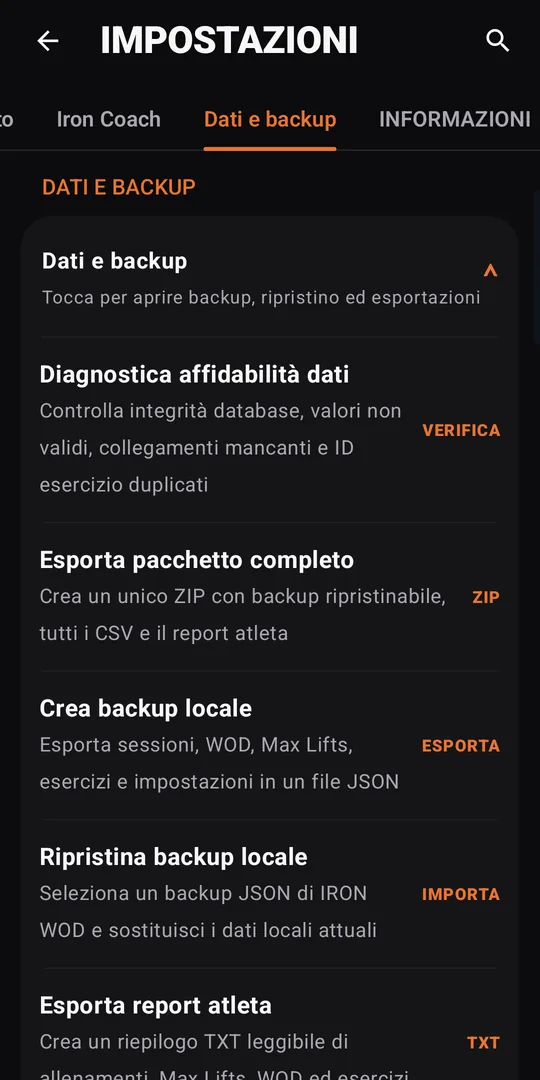
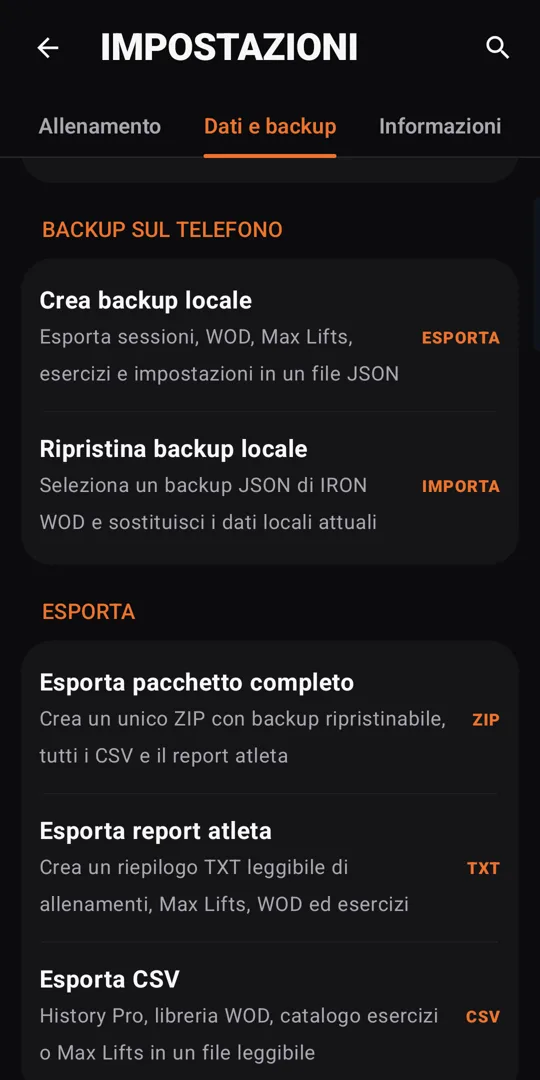
Guida: impostazioni della 10.2.13 (schede, audio unico, blocco History Pro, tempi degli intervalli, muscoli pesati)
Claude-Session: https://claude.ai/code/session_01MH571cCNGsvjtF2qpejdxA

diff --git a/guida/index.html b/guida/index.html
@@ -211,6 +211,8 @@ const SECTIONS = [
         d: { it: 'Italiano, inglese e spagnolo. I nomi ufficiali del cross training (Thruster, Muscle-Up, For Time…) restano in inglese in tutte le lingue, come in palestra.', en: 'Italian, English and Spanish. Official cross-training names (Thruster, Muscle-Up, For Time…) stay in English in every language, as in the box.', es: 'Italiano, inglés y español. Los nombres oficiales del cross training (Thruster, Muscle-Up, For Time…) se mantienen en inglés en todos los idiomas, como en el box.' } },
       { t: { it: 'Unità e tema', en: 'Units and theme', es: 'Unidades y tema' },
         d: { it: 'Sistema metrico (kg, km, m, cm) o imperiale (lb, mi, yd, ft, in) applicato ovunque. Tema scuro, chiaro o automatico: i timer restano sempre scuri per leggerli bene.', en: 'Metric (kg, km, m, cm) or imperial (lb, mi, yd, ft, in) everywhere. Dark, light or automatic theme: timers always stay dark so they read well.', es: 'Sistema métrico (kg, km, m, cm) o imperial (lb, mi, yd, ft, in) en toda la app. Tema oscuro, claro o automático: los temporizadores siempre quedan oscuros para leerlos bien.' } },
+      { t: { it: 'Impostazioni', en: 'Settings', es: 'Ajustes' },
+        d: { it: 'Dal menu, l\'ingranaggio accanto a IRON WOD. Cinque schede: <b>Generale</b> (lingua, unità, tema, azioni rapide, notifiche), <b>Timer</b> (audio, vibrazione, countdown, schermo, TV), <b>Allenamento</b> (blocchi di modifica, formula 1RM, sensori cardio), <b>Dati e backup</b> e <b>Informazioni</b>. La lente in alto cerca tra tutte le voci.', en: 'From the menu, the gear next to IRON WOD. Five tabs: <b>General</b> (language, units, theme, quick actions, notifications), <b>Timer</b> (audio, vibration, countdown, screen, TV), <b>Training</b> (editing locks, 1RM formula, heart rate sensors), <b>Data and backup</b> and <b>Information</b>. The magnifier at the top searches every setting.', es: 'Desde el menú, el engranaje junto a IRON WOD. Cinco pestañas: <b>General</b> (idioma, unidades, tema, acciones rápidas, notificaciones), <b>Timer</b> (audio, vibración, cuenta atrás, pantalla, TV), <b>Entrenamiento</b> (bloqueos de edición, fórmula 1RM, sensores cardio), <b>Datos y copia</b> e <b>Información</b>. La lupa de arriba busca entre todos los ajustes.' } },
       { t: { it: 'Nessun account', en: 'No account', es: 'Sin cuenta' },
         d: { it: 'L\'app funziona offline e non ha un server: tutti i dati restano sul telefono. Il backup su Google Drive è facoltativo e finisce in uno spazio privato del tuo Drive.', en: 'The app works offline and has no server: all data stays on the phone. Google Drive backup is optional and goes to a private area of your own Drive.', es: 'La app funciona sin conexión y no tiene servidor: todos los datos se quedan en el teléfono. La copia en Google Drive es opcional y va a un espacio privado de tu Drive.' } }
     ]
@@ -223,7 +225,7 @@ const SECTIONS = [
       en: 'Eight free timers ready in one tap: AMRAP, EMOM, Tabata, Intervals, Manual intervals, For Time, Countdown and Count Up. The same engines also run your saved WODs, and the board is the same on the phone, on the TV via HDMI and on Chromecast.',
       es: 'Ocho temporizadores libres listos en un toque: AMRAP, EMOM, Tabata, Intervals, Intervalos manuales, For Time, Countdown y Count Up. Los mismos motores ejecutan también tus WOD guardados, y el panel es el mismo en el teléfono, en la TV por HDMI y en Chromecast.'
     },
-    shots: [['timers', { it: 'Scelta del timer', en: 'Choosing a timer', es: 'Elegir el temporizador' }], ['timer-setup', { it: 'Configurazione con i preset', en: 'Setup with presets', es: 'Configuración con presets' }], ['timer-run', { it: 'Timer in corso', en: 'Timer running', es: 'Temporizador en marcha' }], ['timer-landscape', { it: 'In orizzontale', en: 'In landscape', es: 'En horizontal' }]],
+    shots: [['timers', { it: 'Scelta del timer', en: 'Choosing a timer', es: 'Elegir el temporizador' }], ['timer-setup', { it: 'Configurazione con i preset', en: 'Setup with presets', es: 'Configuración con presets' }], ['timer-run', { it: 'Timer in corso', en: 'Timer running', es: 'Temporizador en marcha' }], ['timer-landscape', { it: 'In orizzontale', en: 'In landscape', es: 'En horizontal' }], ['settings-timer', { it: 'Impostazioni › Timer', en: 'Settings › Timer', es: 'Ajustes › Timer' }]],
     items: [
       { t: { it: 'I formati', en: 'The formats', es: 'Los formatos' },
         list: {
@@ -238,7 +240,7 @@ const SECTIONS = [
       { t: { it: 'In orizzontale', en: 'In landscape', es: 'En horizontal' },
         d: { it: 'Gira il telefono a timer avviato: il pannello passa a schermo intero, leggibile da lontano. Con <b>Orizzontale automatico</b> ci va da solo appena parte il timer.', en: 'Turn the phone once the timer is running: the board goes full screen, readable from across the room. With <b>Automatic landscape</b> it switches on its own as soon as the timer starts.', es: 'Gira el teléfono con el temporizador en marcha: el panel pasa a pantalla completa, legible desde lejos. Con <b>Horizontal automático</b> lo hace solo en cuanto arranca el temporizador.' } },
       { t: { it: 'Segnali e preparazione', en: 'Cues and preparation', es: 'Señales y preparación' },
-        d: { it: 'Countdown di preparazione (3, 5 o 10 secondi), beep, voce che dice Vai, Work, Rest e fine allenamento, vibrazione e schermo sempre acceso. Il <b>Countdown finale</b> negli ultimi 10 secondi prima della fine o del time cap fa il conto alla rovescia sonoro e mostra solo i secondi. Tutto si regola in Impostazioni › Allenamento, diviso in <b>Timer · Schermo</b>, <b>Timer · Segnali</b> e <b>Timer · Avvio e fine</b>, con i pulsanti di prova.', en: 'Preparation countdown (3, 5 or 10 seconds), beeps, a voice saying Go, Work, Rest and workout over, vibration and keep-screen-on. The <b>Final countdown</b> counts down out loud in the last 10 seconds before the end or the time cap and shows only the seconds. Everything is in Settings › Training, split into <b>Timer · Screen</b>, <b>Timer · Cues</b> and <b>Timer · Start and end</b>, with test buttons.', es: 'Cuenta atrás de preparación (3, 5 o 10 segundos), pitidos, voz que dice Vamos, Work, Rest y fin del entrenamiento, vibración y pantalla siempre encendida. La <b>Cuenta atrás final</b> en los últimos 10 segundos antes del final o del time cap hace la cuenta atrás sonora y muestra solo los segundos. Todo se ajusta en Ajustes › Entrenamiento, dividido en <b>Timer · Pantalla</b>, <b>Timer · Señales</b> y <b>Timer · Inicio y fin</b>, con botones de prueba.' } },
+        d: { it: 'L\'<b>Audio del timer</b> è una scelta sola: <b>Beep</b>, <b>Voce</b> (dice Vai, Work, Rest e fine allenamento) o <b>Nessuno</b>. Poi vibrazione, countdown di preparazione (3, 5 o 10 secondi) e schermo sempre acceso. Il <b>Countdown finale</b> negli ultimi 10 secondi prima della fine o del time cap fa il conto alla rovescia sonoro e mostra solo i secondi. Tutto sta nella scheda <b>Impostazioni › Timer</b>, divisa in Suoni e vibrazione, Avvio e fine, Schermo e TV e Chromecast, con i pulsanti di prova.', en: '<b>Timer audio</b> is a single choice: <b>Beep</b>, <b>Voice</b> (says Go, Work, Rest and workout over) or <b>None</b>. Then vibration, preparation countdown (3, 5 or 10 seconds) and keep-screen-on. The <b>Final countdown</b> counts down out loud in the last 10 seconds before the end or the time cap and shows only the seconds. It\'s all in the <b>Settings › Timer</b> tab, split into Sounds and vibration, Start and end, Screen and TV and Chromecast, with test buttons.', es: 'El <b>Audio del timer</b> es una sola elección: <b>Beep</b>, <b>Voz</b> (dice Vamos, Work, Rest y fin del entrenamiento) o <b>Ninguno</b>. Luego vibración, cuenta atrás de preparación (3, 5 o 10 segundos) y pantalla siempre encendida. La <b>Cuenta atrás final</b> en los últimos 10 segundos antes del final o del time cap hace la cuenta atrás sonora y muestra solo los segundos. Todo está en la pestaña <b>Ajustes › Timer</b>, dividida en Sonidos y vibración, Inicio y fin, Pantalla y TV y Chromecast, con botones de prueba.' } },
       { t: { it: 'Durante il WOD', en: 'During the WOD', es: 'Durante el WOD' },
         d: { it: 'Pausa e ripresa, round segnati con un tocco, ANNULLA WOD se vuoi uscire senza salvare. Il timer sopravvive anche se lo schermo si spegne, se cambi app o se Android chiude IRON WOD per liberare memoria: riaprendo l\'app il WOD riprende da dove era, contando anche il tempo trascorso.', en: 'Pause and resume, rounds marked with one tap, CANCEL WOD to leave without saving. The timer survives the screen turning off, switching apps, or Android closing IRON WOD to free memory: reopen it and the WOD picks up where it was, counting the time that passed.', es: 'Pausa y reanudación, rondas marcadas con un toque, CANCELAR WOD para salir sin guardar. El temporizador sigue aunque se apague la pantalla, cambies de app o Android cierre IRON WOD para liberar memoria: al volver a abrir la app el WOD continúa donde estaba, contando también el tiempo transcurrido.' } },
       { t: { it: 'Salva il risultato', en: 'Save the result', es: 'Guarda el resultado' },
@@ -288,7 +290,7 @@ const SECTIONS = [
         '<b>Gli esercizi.</b> Tocca <b>+ Esercizio</b>: nasce una riga libera in fondo. Cerca il movimento nel catalogo (vanno bene anche le sigle: TTB, HSPU, BMU…), scegli ripetizioni, calorie, metri o tempo, il carico e una nota ("Speed"). Poi <b>trascinalo dentro l\'intervallo</b>. Con ⋮ lo sposti, lo duplichi o lo mandi in un altro intervallo.',
         '<b>La parte For Time.</b> Aggiungi un secondo intervallo e lascialo su <b>Generale (FOR TIME)</b>: eredita da solo il TC di 20\'. Mettici Power Snatch 21 @40 kg, HSPU 15, TTB 9.',
         '<b>Attendi il tocco tra le parti.</b> Apri l\'intervallo 2 e attiva <b>Attendi il tocco per iniziare</b>: sopra compare il separatore <b>PARTE 2</b>. Finito l\'EMOM il timer si ferma e riparte solo quando tocchi Inizia; l\'attesa non conta nel tempo del WOD e il cap di 20\' parte da qui, non dall\'inizio dell\'EMOM.',
-        '<b>Il recupero tra i blocchi.</b> Tocca <b>+ Riposo</b>: arriva una scheda <b style="color:var(--blue)">blu</b> da 1 minuto (puoi cambiarla). Trascinala dopo il primo intervallo della PARTE 2. Il recupero fa parte del tempo: conta nei 20\' di cap.',
+        '<b>Il recupero tra i blocchi.</b> Tocca <b>+ Riposo</b>: arriva una scheda <b style="color:var(--blue)">blu</b> da 60 secondi: la durata si scrive in secondi, per esempio 90 per 1:30. Trascinala dopo il primo intervallo della PARTE 2. Il recupero fa parte del tempo: conta nei 20\' di cap.',
         '<b>Le altre scale.</b> Dal ⋮ dell\'intervallo della scala 21-15-9 scegli <b>Duplica</b>, cambia le ripetizioni in 15-12-9 e <b>spegni</b> "Attendi il tocco" (deve partire da solo dopo il recupero). Aggiungi un altro Riposo e un terzo intervallo 12-9-6. Dentro la PARTE 2 gli intervalli si numerano da 1: Intervallo 1, 2 e 3.',
         '<b>Controlla e salva.</b> Tieni premuto e trascina per riordinare intervalli ed esercizi. <b>SALVA WORKOUT</b> ti avvisa se un intervallo è vuoto, se un esercizio è rimasto fuori o se un nome non è nel catalogo.',
         '<b>Allenati.</b> Dal dettaglio del WOD premi <b>AVVIA WOD</b>: il timer passa da un intervallo all\'altro, si ferma sulla PARTE 2 e a fine WOD ti propone di salvare la sessione con il tempo di ogni parte.'
@@ -300,7 +302,7 @@ const SECTIONS = [
         '<b>The exercises.</b> Tap <b>+ Exercise</b>: a loose row appears at the bottom. Search the movement in the catalog (board shorthand works too: TTB, HSPU, BMU…), set reps, calories, meters or time, the load and a note ("Speed"). Then <b>drag it into the interval</b>. With ⋮ you move it, duplicate it or send it to another interval.',
         '<b>The For Time part.</b> Add a second interval and leave it on <b>General (FOR TIME)</b>: it inherits the 20\' cap by itself. Add Power Snatch 21 @40 kg, HSPU 15, TTB 9.',
         '<b>Wait for a tap between parts.</b> Open interval 2 and turn on <b>Wait for tap to start</b>: the <b>PART 2</b> divider appears above it. After the EMOM the timer stops and restarts only when you tap Start; the wait doesn\'t count as WOD time and the 20\' cap starts here, not at the start of the EMOM.',
-        '<b>Rest between blocks.</b> Tap <b>+ Rest</b>: a <b style="color:var(--blue)">blue</b> 1-minute card appears (you can change it). Drag it after the first interval of PART 2. Rest is part of the time: it counts toward the 20\' cap.',
+        '<b>Rest between blocks.</b> Tap <b>+ Rest</b>: a <b style="color:var(--blue)">blue</b> 60-second card appears: its length is in seconds, for example 90 for 1:30. Drag it after the first interval of PART 2. Rest is part of the time: it counts toward the 20\' cap.',
         '<b>The other ladders.</b> From the ⋮ of the 21-15-9 interval choose <b>Duplicate</b>, change the reps to 15-12-9 and <b>turn off</b> "Wait for tap" (it must start on its own after the rest). Add another Rest and a third interval 12-9-6. Inside PART 2 intervals are numbered from 1: Interval 1, 2 and 3.',
         '<b>Check and save.</b> Long-press and drag to reorder intervals and exercises. <b>SAVE WORKOUT</b> warns you if an interval is empty, an exercise was left outside or a name isn\'t in the catalog.',
         '<b>Train.</b> From the WOD detail tap <b>START WOD</b>: the timer moves from interval to interval, stops at PART 2 and at the end offers to save the session with the time of each part.'
@@ -312,7 +314,7 @@ const SECTIONS = [
         '<b>Los ejercicios.</b> Toca <b>+ Ejercicio</b>: aparece una fila suelta al final. Busca el movimiento en el catálogo (también valen las siglas: TTB, HSPU, BMU…), elige repeticiones, calorías, metros o tiempo, la carga y una nota ("Speed"). Luego <b>arrástralo dentro del intervalo</b>. Con ⋮ lo mueves, lo duplicas o lo mandas a otro intervalo.',
         '<b>La parte For Time.</b> Añade un segundo intervalo y déjalo en <b>General (FOR TIME)</b>: hereda solo el cap de 20\'. Pon Power Snatch 21 @40 kg, HSPU 15, TTB 9.',
         '<b>Esperar un toque entre partes.</b> Abre el intervalo 2 y activa <b>Esperar un toque para empezar</b>: encima aparece el separador <b>PARTE 2</b>. Al acabar el EMOM el temporizador se detiene y solo vuelve a arrancar cuando tocas Empezar; la espera no cuenta en el tiempo del WOD y el cap de 20\' empieza aquí, no al inicio del EMOM.',
-        '<b>El descanso entre bloques.</b> Toca <b>+ Descanso</b>: aparece una tarjeta <b style="color:var(--blue)">azul</b> de 1 minuto (puedes cambiarla). Arrástrala después del primer intervalo de la PARTE 2. El descanso forma parte del tiempo: cuenta en los 20\' de cap.',
+        '<b>El descanso entre bloques.</b> Toca <b>+ Descanso</b>: aparece una tarjeta <b style="color:var(--blue)">azul</b> de 60 segundos: la duración va en segundos, por ejemplo 90 para 1:30. Arrástrala después del primer intervalo de la PARTE 2. El descanso forma parte del tiempo: cuenta en los 20\' de cap.',
         '<b>Las otras escaleras.</b> Desde el ⋮ del intervalo de la escalera 21-15-9 elige <b>Duplicar</b>, cambia las repeticiones a 15-12-9 y <b>desactiva</b> "Esperar un toque" (debe arrancar solo tras el descanso). Añade otro Descanso y un tercer intervalo 12-9-6. Dentro de la PARTE 2 los intervalos se numeran desde 1: Intervalo 1, 2 y 3.',
         '<b>Revisa y guarda.</b> Mantén pulsado y arrastra para reordenar intervalos y ejercicios. <b>GUARDAR WORKOUT</b> te avisa si un intervalo está vacío, si un ejercicio quedó fuera o si un nombre no está en el catálogo.',
         '<b>Entrena.</b> Desde el detalle del WOD pulsa <b>INICIAR WOD</b>: el temporizador pasa de un intervalo a otro, se detiene en la PARTE 2 y al final te propone guardar la sesión con el tiempo de cada parte.'
@@ -428,9 +430,9 @@ const SECTIONS = [
       { t: { it: 'Mappa muscolare', en: 'Muscle map', es: 'Mapa muscular' },
         d: { it: 'Fronte e retro del corpo con i muscoli principali e secondari evidenziati.', en: 'Front and back of the body with primary and secondary muscles highlighted.', es: 'Frente y espalda del cuerpo con los músculos principales y secundarios resaltados.' } },
       { t: { it: 'Ricerca intelligente', en: 'Smart search', es: 'Búsqueda inteligente' },
-        d: { it: 'Trova gli esercizi anche per alias e sigle da lavagna (BMU, T2B, KBS…), con filtri per tipo, categoria, attrezzatura e difficoltà, e i preferiti in cima.', en: 'Finds exercises by alias and board shorthand too (BMU, T2B, KBS…), with type, category, equipment and difficulty filters, and favorites first.', es: 'Encuentra ejercicios también por alias y siglas de pizarra (BMU, T2B, KBS…), con filtros por tipo, categoría, material y dificultad, y los favoritos primero.' } },
+        d: { it: 'Trova gli esercizi anche per alias e sigle da lavagna (BMU, T2B, KBS…), senza differenza tra maiuscole e minuscole, con filtri per tipo, categoria, attrezzatura e difficoltà, e i preferiti in cima.', en: 'Finds exercises by alias and board shorthand too (BMU, T2B, KBS…), whatever the case, with type, category, equipment and difficulty filters, and favorites first.', es: 'Encuentra ejercicios también por alias y siglas de pizarra (BMU, T2B, KBS…), sin importar mayúsculas o minúsculas, con filtros por tipo, categoría, material y dificultad, y los favoritos primero.' } },
       { t: { it: 'Esercizi tuoi', en: 'Your own exercises', es: 'Tus propios ejercicios' },
-        d: { it: 'Aggiungi esercizi personalizzati con il pulsante <b>+</b> in basso a destra. Quelli standard si possono modificare solo attivando l\'opzione apposita in Impostazioni.', en: 'Add custom exercises with the <b>+</b> button at the bottom right. Standard ones can be edited only after turning on the dedicated option in Settings.', es: 'Añade ejercicios personalizados con el botón <b>+</b> abajo a la derecha. Los estándar solo se pueden editar activando la opción correspondiente en Ajustes.' } }
+        d: { it: 'Aggiungi esercizi personalizzati con il pulsante <b>+</b> in basso a destra. Per i tuoi puoi indicare anche l\'<b>Intensità per ripetizione</b>, che pesa l\'esercizio sulla mappa dei muscoli: 1 = un push-up, 0,2 = una double-under, 1,9 = una strict deficit HSPU. Quelli standard sono già pesati e si possono modificare solo attivando l\'opzione apposita in Impostazioni › Allenamento.', en: 'Add custom exercises with the <b>+</b> button at the bottom right. For your own you can also set the <b>Intensity per rep</b>, which weighs the exercise on the muscle map: 1 = a push-up, 0.2 = a double-under, 1.9 = a strict deficit HSPU. Standard ones are already weighted and can be edited only after turning on the dedicated option in Settings › Training.', es: 'Añade ejercicios personalizados con el botón <b>+</b> abajo a la derecha. En los tuyos puedes indicar también la <b>Intensidad por repetición</b>, que pondera el ejercicio en el mapa muscular: 1 = un push-up, 0,2 = una double-under, 1,9 = una strict deficit HSPU. Los estándar ya están ponderados y solo se pueden editar activando la opción correspondiente en Ajustes › Entrenamiento.' } }
     ]
   },
   {
@@ -464,9 +466,13 @@ const SECTIONS = [
     shots: [['history', { it: 'Cronologia', en: 'History', es: 'Historial' }], ['session', { it: 'Dettaglio sessione', en: 'Session detail', es: 'Detalle de sesión' }], ['session-3', { it: 'Muscoli coinvolti', en: 'Muscles worked', es: 'Músculos implicados' }]],
     items: [
       { t: { it: 'Dettaglio sessione', en: 'Session detail', es: 'Detalle de sesión' },
-        d: { it: 'Struttura del WOD, tempo di ogni parte, punteggio, round, RX o Scaled, RPE, note, carichi usati e frequenza cardiaca con le zone.', en: 'WOD structure, time of each part, score, rounds, RX or Scaled, RPE, notes, loads used and heart rate with zones.', es: 'Estructura del WOD, tiempo de cada parte, puntuación, rondas, RX o Scaled, RPE, notas, cargas usadas y frecuencia cardiaca con zonas.' } },
+        d: { it: 'Struttura del WOD, tempo di ogni parte, punteggio, round, RX o Scaled, RPE, note, carichi usati e frequenza cardiaca con le zone. Il time cap generale compare una volta sola in alto; accanto a un intervallo c\'è solo se ne ha uno suo.', en: 'WOD structure, time of each part, score, rounds, RX or Scaled, RPE, notes, loads used and heart rate with zones. The general time cap shows once at the top; next to an interval only when it has its own.', es: 'Estructura del WOD, tiempo de cada parte, puntuación, rondas, RX o Scaled, RPE, notas, cargas usadas y frecuencia cardiaca con zonas. El time cap general aparece una sola vez arriba; junto a un intervalo solo si tiene uno propio.' } },
+      { t: { it: 'Muscoli coinvolti', en: 'Muscles worked', es: 'Músculos implicados' },
+        d: { it: 'La mappa pesa ogni esercizio per quanto costa davvero una ripetizione: 300 double-under caricano i polpacci meno di quanto 50 strict HSPU carichino le spalle.', en: 'The map weighs each exercise by what one rep really costs: 300 double-unders load the calves less than 50 strict HSPU load the shoulders.', es: 'El mapa pondera cada ejercicio por lo que cuesta de verdad una repetición: 300 double-unders cargan los gemelos menos de lo que 50 strict HSPU cargan los hombros.' } },
       { t: { it: 'Inserimento manuale', en: 'Manual entry', es: 'Entrada manual' },
-        d: { it: 'Hai fatto il WOD senza il telefono? Inseriscilo dopo, con data, ora, durata, time cap e la struttura costruita con lo stesso editor dei WOD.', en: 'Did the WOD without your phone? Add it afterwards, with date, time, duration, time cap and the structure built with the same WOD editor.', es: '¿Hiciste el WOD sin el teléfono? Añádelo después, con fecha, hora, duración, time cap y la estructura hecha con el mismo editor de WOD.' } },
+        d: { it: 'Hai fatto il WOD senza il telefono? Inseriscilo dopo, con data, ora, durata, time cap e la struttura costruita con lo stesso editor dei WOD. Nei WOD a più intervalli puoi scrivere anche il <b>tempo di ogni intervallo</b>.', en: 'Did the WOD without your phone? Add it afterwards, with date, time, duration, time cap and the structure built with the same WOD editor. In WODs with several intervals you can also enter the <b>time of each interval</b>.', es: '¿Hiciste el WOD sin el teléfono? Añádelo después, con fecha, hora, duración, time cap y la estructura hecha con el mismo editor de WOD. En los WOD con varios intervalos puedes escribir también el <b>tiempo de cada intervalo</b>.' } },
+      { t: { it: 'Modifiche bloccate', en: 'Editing locked', es: 'Edición bloqueada' },
+        d: { it: 'Perché i risultati restino quelli veri, aggiungere un WOD a mano e modificare una sessione già fatta sono <b>bloccati di default</b>: si sbloccano in Impostazioni › Allenamento › <b>Consenti modifica History Pro</b>. Il salvataggio a fine timer resta sempre libero.', en: 'So that results stay the real ones, adding a WOD by hand and editing a session already done are <b>locked by default</b>: unlock them in Settings › Training › <b>Allow History Pro editing</b>. Saving at the end of a timer always stays available.', es: 'Para que los resultados sigan siendo los reales, añadir un WOD a mano y editar una sesión ya hecha están <b>bloqueados por defecto</b>: se desbloquean en Ajustes › Entrenamiento › <b>Permitir editar History Pro</b>. Guardar al final del temporizador siempre está disponible.' } },
       { t: { it: 'Condivisione', en: 'Sharing', es: 'Compartir' },
         d: { it: 'Condividi una sessione o un elenco filtrato di risultati. Dal dettaglio di una sessione puoi passare anche il WOD stesso, con un link o un QR (vedi <a href="#s-share">Condividere un WOD</a>).', en: 'Share a session or a filtered list of results. From a session\'s detail you can also pass on the WOD itself, as a link or a QR code (see <a href="#s-share">Sharing a WOD</a>).', es: 'Comparte una sesión o una lista filtrada de resultados. Desde el detalle de una sesión también puedes pasar el WOD, con un enlace o un QR (ver <a href="#s-share">Compartir un WOD</a>).' } }
     ]
@@ -593,7 +599,7 @@ const SECTIONS = [
       { t: { it: 'HDMI e USB-C', en: 'HDMI and USB-C', es: 'HDMI y USB-C' },
         d: { it: 'Con un adattatore USB-C/HDMI compatibile lo schermo esterno mostra solo il tabellone del timer, non una copia del telefono.', en: 'With a compatible USB-C/HDMI adapter the external display shows only the timer board, not a mirror of the phone.', es: 'Con un adaptador USB-C/HDMI compatible la pantalla externa muestra solo el marcador del temporizador, no una copia del teléfono.' } },
       { t: { it: 'Margine TV', en: 'TV margin', es: 'Margen TV' },
-        d: { it: 'Se la TV taglia i bordi dell\'immagine, in Impostazioni › Allenamento il <b>Margine TV</b> rimpicciolisce il timer su HDMI e Chromecast finché non si vede tutto.', en: 'If the TV crops the edges of the picture, <b>TV margin</b> in Settings › Training shrinks the timer on HDMI and Chromecast until everything fits.', es: 'Si la TV recorta los bordes de la imagen, el <b>Margen TV</b> en Ajustes › Entrenamiento reduce el temporizador en HDMI y Chromecast hasta que se ve todo.' } },
+        d: { it: 'Se la TV taglia i bordi dell\'immagine, in Impostazioni › Timer il <b>Margine TV</b> rimpicciolisce il timer su HDMI e Chromecast finché non si vede tutto.', en: 'If the TV crops the edges of the picture, <b>TV margin</b> in Settings › Timer shrinks the timer on HDMI and Chromecast until everything fits.', es: 'Si la TV recorta los bordes de la imagen, el <b>Margen TV</b> en Ajustes › Timer reduce el temporizador en HDMI y Chromecast hasta que se ve todo.' } },
       { t: { it: 'Chromecast da aggiornare', en: 'Chromecast out of date', es: 'Chromecast por actualizar' },
         d: { it: 'Il pannello del Chromecast si aggiorna da solo insieme all\'app. Se per qualche minuto ha ancora quello di una versione precedente, l\'app te lo dice: in TV qualcosa può apparire diverso dal telefono.', en: 'The Chromecast board updates by itself along with the app. If for a few minutes it still has the one from an earlier version, the app tells you: something on the TV may look different from the phone.', es: 'El panel del Chromecast se actualiza solo junto con la app. Si durante unos minutos aún tiene el de una versión anterior, la app te avisa: en la TV algo puede verse distinto que en el teléfono.' } }
     ]
@@ -608,12 +614,14 @@ const SECTIONS = [
     },
     shots: [['backup', { it: 'Dati e backup', en: 'Data and backup', es: 'Datos y copias' }]],
     items: [
+      { t: { it: 'Com\'è organizzata', en: 'How it\'s laid out', es: 'Cómo está organizada' },
+        d: { it: 'Nella scheda Impostazioni › Dati e backup, dall\'alto: Backup Cloud, Backup sul telefono, Esporta e, in fondo, Manutenzione con la diagnostica dei dati.', en: 'In Settings › Data and backup, from the top: Cloud backup, Backup on this phone, Export and, at the bottom, Maintenance with the data check.', es: 'En Ajustes › Datos y copia, de arriba abajo: Copia en la nube, Copia en el teléfono, Exportar y, al final, Mantenimiento con el diagnóstico de datos.' } },
       { t: { it: 'Backup e ripristino', en: 'Backup and restore', es: 'Copia y restauración' },
         d: { it: 'Backup completo su file, con verifica di integrità. Al ripristino scegli SOSTITUISCI per sovrascrivere o UNISCI SICURO per importare solo i record senza conflitti.', en: 'Full backup to a file, with integrity check. When restoring choose REPLACE to overwrite or SAFE MERGE to import only records without conflicts.', es: 'Copia completa a un archivo, con verificación de integridad. Al restaurar elige SUSTITUIR para sobrescribir o UNIR SEGURO para importar solo los registros sin conflictos.' } },
       { t: { it: 'Google Drive', en: 'Google Drive', es: 'Google Drive' },
         d: { it: 'Backup cloud facoltativo in uno spazio privato dell\'app sul tuo Drive, non visibile tra i tuoi file e non accessibile allo sviluppatore.', en: 'Optional cloud backup to a private app area on your Drive, not visible among your files and not accessible to the developer.', es: 'Copia en la nube opcional en un espacio privado de la app en tu Drive, no visible entre tus archivos y no accesible para el desarrollador.' } },
       { t: { it: 'Esportazioni', en: 'Exports', es: 'Exportaciones' },
-        d: { it: 'CSV di History Pro, libreria WOD, catalogo esercizi e massimali; report atleta in testo; oppure un unico ZIP con tutto.', en: 'CSV of History Pro, WOD library, exercise catalog and max lifts; a text athlete report; or a single ZIP with everything.', es: 'CSV de History Pro, biblioteca de WOD, catálogo de ejercicios y máximos; informe del atleta en texto; o un único ZIP con todo.' } },
+        d: { it: 'Un unico ZIP con tutto, il report atleta in testo, oppure <b>Esporta CSV</b>, che ti fa scegliere tra History Pro, libreria WOD, catalogo esercizi e massimali.', en: 'A single ZIP with everything, the athlete report as text, or <b>Export CSV</b>, which lets you pick History Pro, WOD library, exercise catalog or max lifts.', es: 'Un único ZIP con todo, el informe del atleta en texto, o <b>Exportar CSV</b>, que te deja elegir entre History Pro, biblioteca de WOD, catálogo de ejercicios y máximos.' } },
       { t: { it: 'Se i dati non si aprono', en: 'If your data won\'t open', es: 'Si tus datos no se abren' },
         d: { it: 'Se dopo un aggiornamento i dati non si aprono, IRON WOD non si chiude: ne salva subito una copia sul telefono e ti propone di riprovare, di inviare la copia all\'assistenza o di ripartire e ripristinare un backup.', en: 'If your data won\'t open after an update, IRON WOD doesn\'t crash: it saves a copy on the phone right away and lets you try again, send the copy to support, or start over and restore a backup.', es: 'Si tras una actualización los datos no se abren, IRON WOD no se cierra: guarda al momento una copia en el teléfono y te deja reintentar, enviar la copia a soporte o empezar de nuevo y restaurar una copia de seguridad.' } }
     ]
